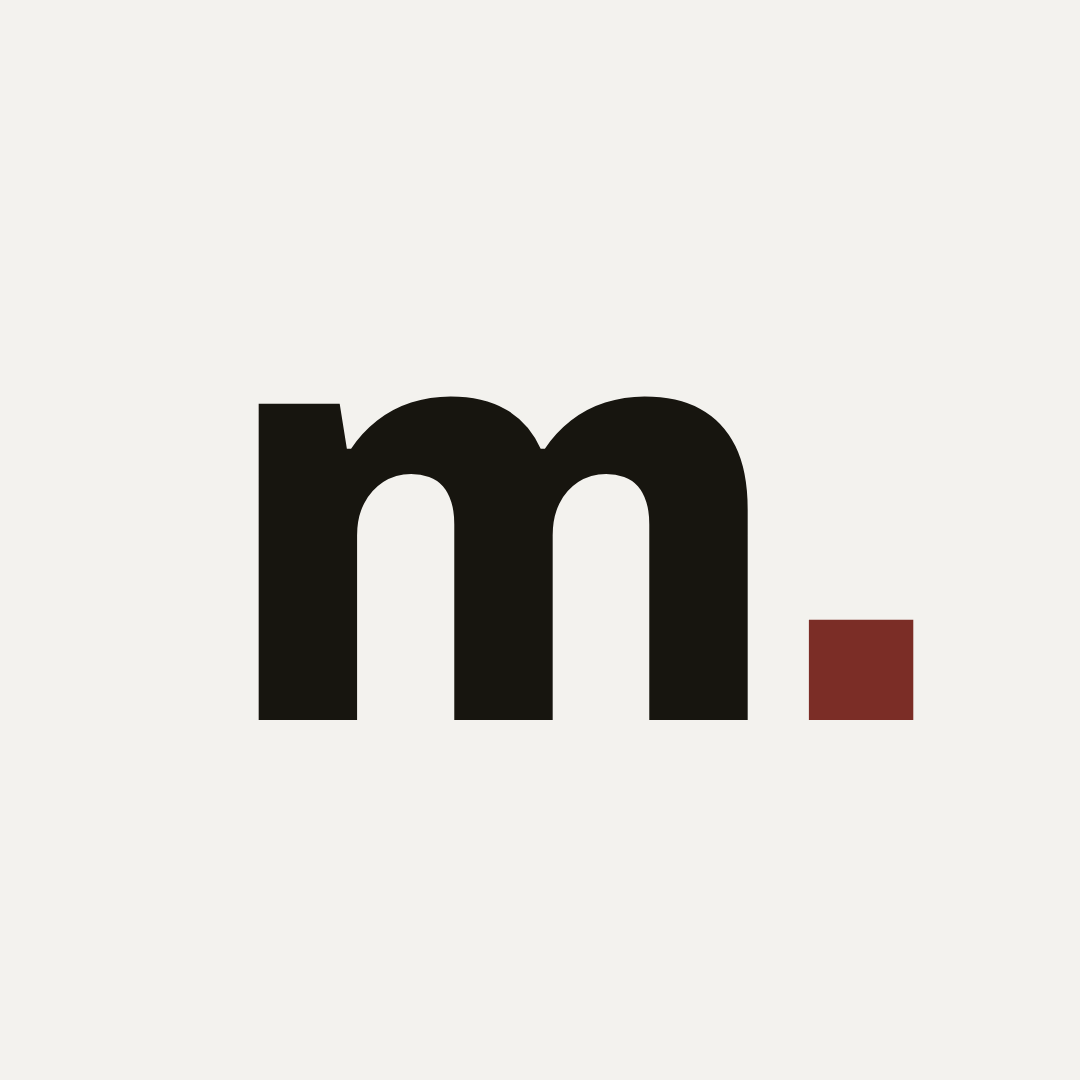
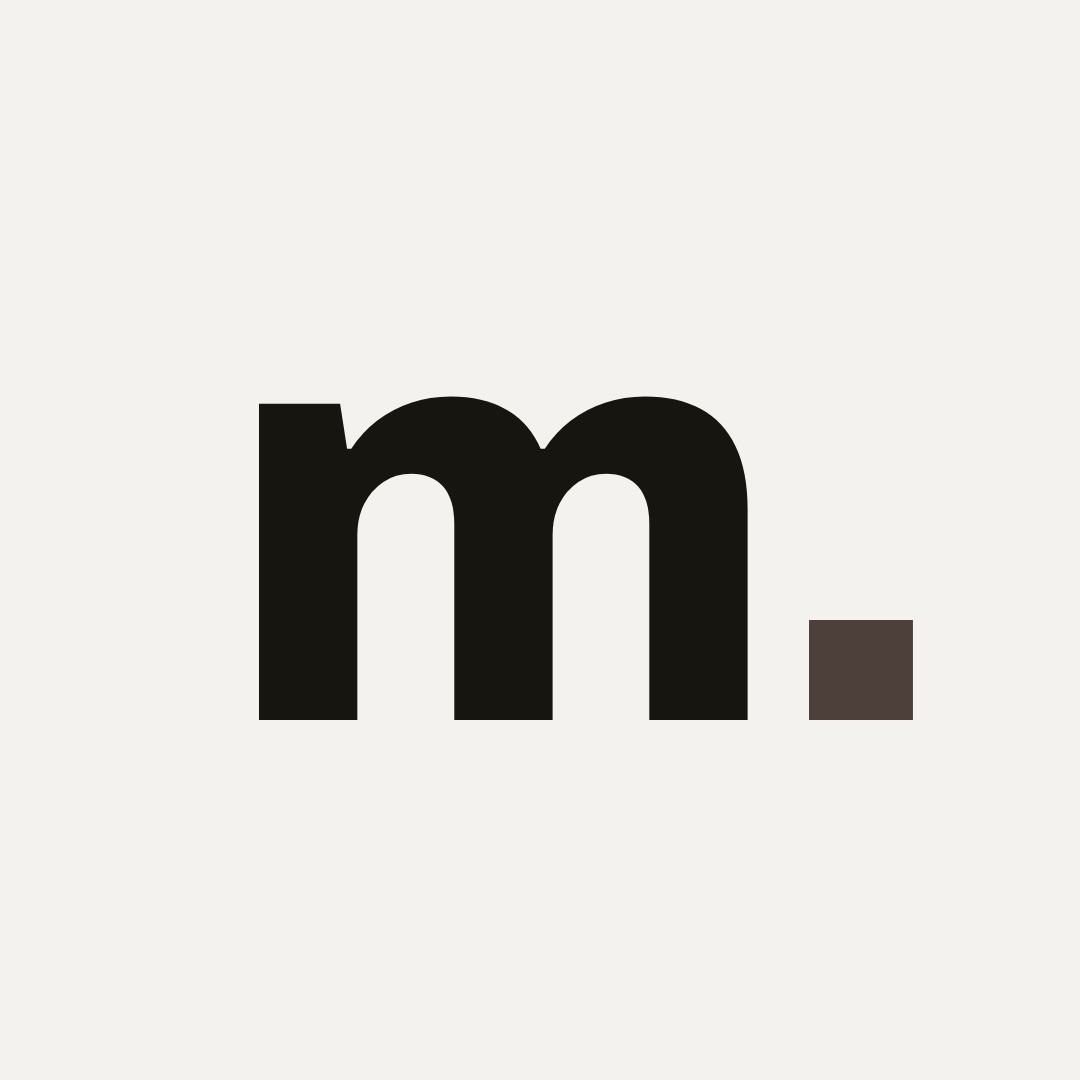
Recolor brand period to brown (Cacao on light, mocha on dark)
Change the signature dot from oxblood to brown #4D403A on light surfaces and a
visible mocha #A88B79 on dark surfaces. Applied to site .dot (nav + footer) and
regenerated all logo, favicon, and social assets to match.

Changed region(s): [[0.7333, 0.55, 0.8556, 0.6722]]

diff --git a/styles.css b/styles.css
@@ -204,7 +204,7 @@ p { text-wrap: pretty; max-width: 68ch; }
 .nav-bar { background: var(--paper); border-bottom: 1px solid var(--line); }
 .nav { display: flex; align-items: center; justify-content: space-between; padding-block: 1.05rem; }
 .brand { font-family: var(--font-display); font-weight: 800; font-size: 1.15rem; letter-spacing: -0.02em; }
-.brand .dot { color: var(--accent); }
+.brand .dot { color: #4D403A; }
 .nav-links { display: flex; gap: clamp(1rem, 2.2vw, 2.2rem); align-items: center; }
 .nav-links a {
   font-family: var(--font-mono); font-size: 0.76rem; font-weight: 500;
@@ -570,7 +570,7 @@ p { text-wrap: pretty; max-width: 68ch; }
   padding-bottom: 2.6rem; border-bottom: 1px solid var(--line-night); }
 .footer-brand { font-family: var(--font-display); font-weight: 800; font-size: clamp(2.4rem,6vw,4.5rem);
   letter-spacing: -0.03em; line-height: 0.9; color: var(--paper); }
-.footer-brand .dot { color: var(--accent-soft); }
+.footer-brand .dot { color: #A88B79; }
 .footer-cols { display: flex; gap: clamp(2rem,6vw,4.5rem); flex-wrap: wrap; }
 .footer-col h4 { font-family: var(--font-mono); font-size: 0.7rem; letter-spacing: 0.06em;
   text-transform: uppercase; color: var(--on-night-soft); margin-bottom: 0.9rem; }
